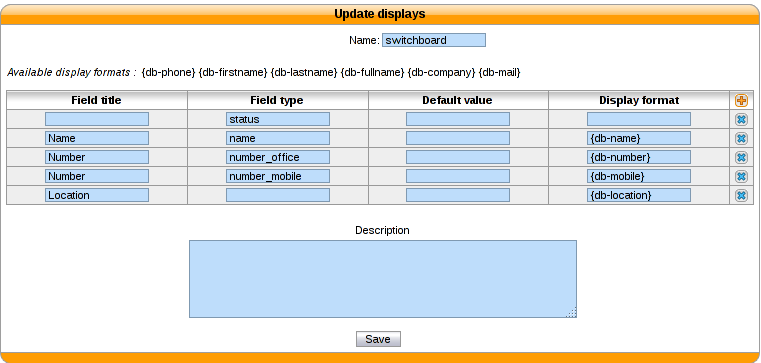
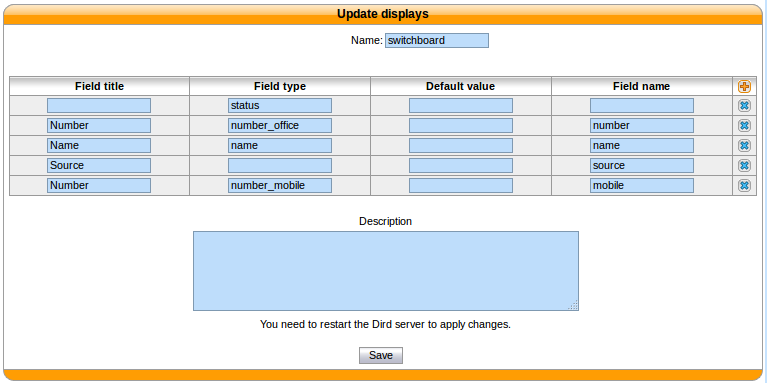
directory display: fix doc about the "Field name"

Changed region(s): [[0.0, 0.0, 1.0, 1.0], [0.544, 0.4545, 0.6649, 0.4848]]

diff --git a/source/administration/phonebook.rst b/source/administration/phonebook.rst
@@ -78,8 +78,6 @@ Fields that can be displayed are set in :menuselection:`Directories -> Definitio
 
 The field name will be used to refer to this field in the directory display.
 
-The fields in definition can be used with the following syntax *{db-[field-name]}*
-
 
 General phone book section
 --------------------------
@@ -190,7 +188,7 @@ This line would match office, home and mobile numbers on incoming calls.
 Displayed field
 ---------------
 
-You have now to define which field should be used to display the result. This is done 
+You have now to define which field should be used to display the result. This is done
 by defining a mapping between the field named *reverse* on the *Mapped fields* list and a database field.
 
 Examples::
@@ -211,4 +209,3 @@ To include a directory in reverse directory definition go to
 to include to reverse lookups in the *Related directories* section.
 
 Restart the CTI server and incoming caller IDs should be resolved using the specified directories.
-

diff --git a/source/administration/directories/directories.rst b/source/administration/directories/directories.rst
@@ -222,7 +222,7 @@ Each line in the display filter will result in a header in your XiVO Client.
 * `Field title` will be the text displayed in the header.
 * `Field type` is the type of the column, this information is used by the XiVO client.
 * `Default value` is the value that will be used if this field is empty for one of the configured sources.
-* `Display format` is the name of the field in the directory definitions. The specified names should be available in the configured sources. To add new column name to a directory definition see above.
+* `Field name` is the name of the field in the directory definitions. The specified names should be available in the configured sources. To add new column name to a directory definition see above.
 
 Column type descriptions are available in :ref:`dird-integration-views`.
 

diff --git a/source/cti_client/xlets/directory.rst b/source/cti_client/xlets/directory.rst
@@ -91,7 +91,7 @@ The following fields must be configured with the correct value for the *Field ty
 #. *number_...* any other field starting with *number_* will be displayed in the *Number* column of the xlet with a generic directory icon
 #. Any other field will be displayed in their own column of the directory xlet
 
-The values in the *Display format* column must contain values that were created in the *Directory definition*.
+The values in the *Field name* column must contain values that were created in the *Directory definition*.
 
 The title used for the *Number* column is the title of the first field whose type starts with *number_*.
 

diff --git a/source/system/xivo-dird/integration.rst b/source/system/xivo-dird/integration.rst
@@ -63,7 +63,7 @@ Enabling favorites in the XiVO client.
 
 
 Adding a `unique_column` to your sources
-^^^^^^^^^^^^^^^^^^^^^^^^^^^^^^^^^^^^^^^
+^^^^^^^^^^^^^^^^^^^^^^^^^^^^^^^^^^^^^^^^
 
 The web interface does not allow the administrator to specify the `unique_column` and `unique_column_format`. To add these configuration options, add a file to `/etc/xivo-dird/sources.d` containing the name of the source and all missing fields.
 
